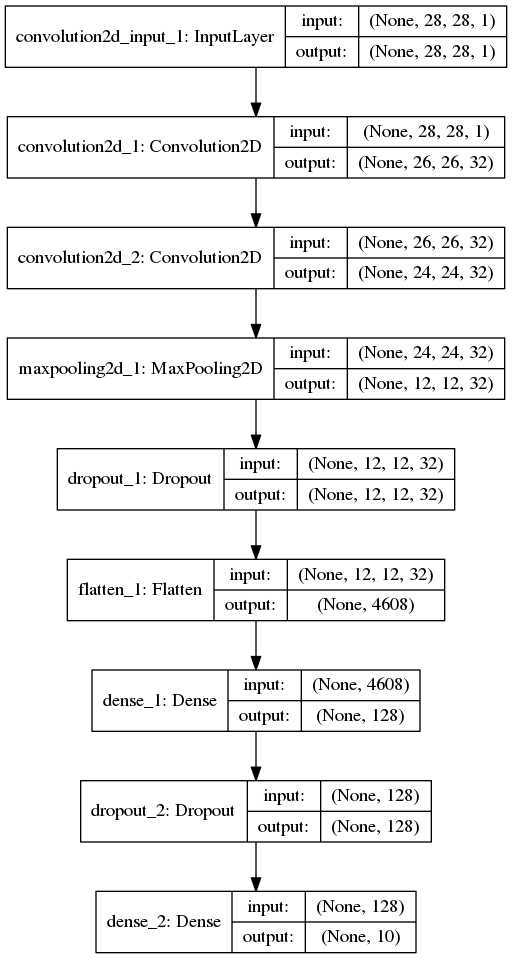
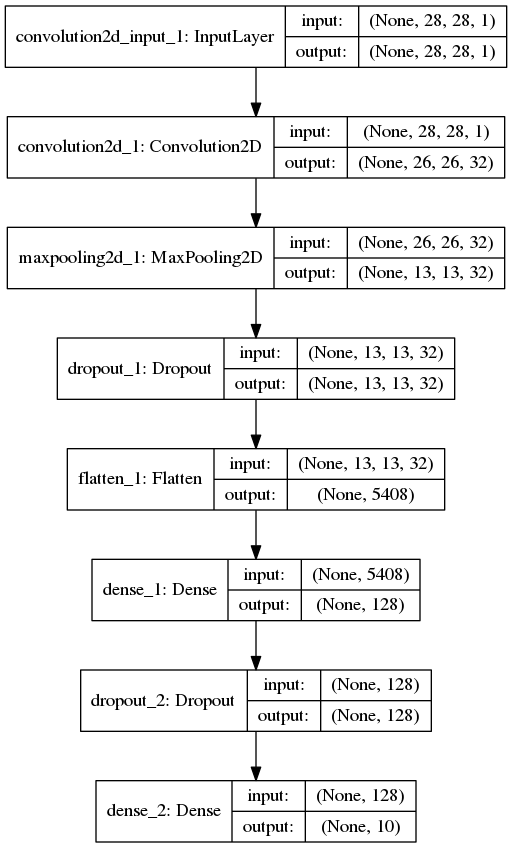
New architectures

Changed region(s): [[0.0, 0.0, 1.0, 1.0]]

diff --git a/Net/net.py b/Net/net.py
@@ -13,6 +13,8 @@ import sys
 import numpy as np
 from sklearn import metrics
 from keras.utils import visualize_util
+from keras.callbacks import EarlyStopping
+from keras.callbacks import ModelCheckpoint
 from keras.layers import Convolution2D, MaxPooling2D
 from keras.layers import Dense, Dropout, Flatten
 from keras.models import Sequential, load_model
@@ -24,27 +26,8 @@ from CustomMetrics.customcallback import LearningCurves
 # Seed for the computer pseudorandom number generator.
 np.random.seed(123)
 
-def add_layers(dropout):
-    ''' Adds to the Keras model the layers defined below '''
-    model = Sequential()
-    model.add(Convolution2D(nb_filters, kernel_size[0], kernel_size[1],
-                            border_mode="valid", activation="relu",
-                            input_shape=input_shape))
-    model.add(Convolution2D(nb_filters, kernel_size[0], kernel_size[1],
-                            activation="relu"))
-    model.add(MaxPooling2D(pool_size=pool_size))
-    if dropout == "y":
-        model.add(Dropout(0.25))
-    model.add(Flatten())
-    model.add(Dense(128, activation="relu"))
-    if dropout == "y":
-        model.add(Dropout(0.5))
-    model.add(Dense(nb_classes, activation="softmax"))
-    
-    return model
-
 if __name__ == "__main__":  
-    nb_epoch = 12
+    nb_epoch = 100
     batch_size = 128
     nb_classes = 10
     labels = [0, 1, 2, 3, 4, 5, 6, 7, 8, 9]
@@ -88,7 +71,17 @@ if __name__ == "__main__":
         (x_val, y_val), input_shape = data.adapt(X_val, Y_val)
         
         # We add layers to our model.
-        model = add_layers(dropout)
+        model = Sequential()
+        model.add(Convolution2D(nb_filters, kernel_size[0], kernel_size[1],
+                                activation="relu", input_shape=input_shape))
+        model.add(MaxPooling2D(pool_size=pool_size))
+        if dropout == "y":
+            model.add(Dropout(0.25))
+        model.add(Flatten())
+        model.add(Dense(128, activation="relu"))
+        if dropout == "y":
+            model.add(Dropout(0.5))
+        model.add(Dense(nb_classes, activation="softmax"))
         
         # We compile our model.
         model.compile(loss="categorical_crossentropy", optimizer="adadelta",
@@ -96,9 +89,16 @@ if __name__ == "__main__":
             
         # We train the model and save data to plot a learning curve.
         learning_curves = LearningCurves()
-        validation = model.fit(x_train, y_train, batch_size=batch_size, 
-                               nb_epoch=nb_epoch, callbacks=[learning_curves],
-                               validation_data=(x_val, y_val))
+        early_stopping = EarlyStopping(monitor='val_loss', patience=2)
+        checkpoint = ModelCheckpoint("net.{epoch:02d}-{val_loss:.2f}.h5",
+                                     save_best_only=True)
+        
+        validation = model.fit(x_train, y_train,
+                               batch_size=batch_size, 
+                               nb_epoch=nb_epoch,
+                               validation_data=(x_val, y_val),
+                               callbacks=[learning_curves, early_stopping,
+                                          checkpoint])
             
         model.save("net.h5")
         visualize_util.plot(model, "net.png", show_shapes=True)

diff --git a/Net/layer_visualization.py b/Net/layer_visualization.py
@@ -14,11 +14,11 @@ import cv2
 import numpy as np
 import matplotlib.pyplot as plt
 from keras import backend as K
+from keras.utils import visualize_util
 from keras.models import load_model, Model
 
 def plot_activations(nb_filters, activations):
     ''' Plots the activations obtained between layers '''
-    nb_filters = activations.shape[3]
     for i in range(nb_filters):
         plt.subplot(math.ceil(nb_filters/7), 7, i + 1)
         plt.imshow(activations[0][:,:,i])
@@ -51,15 +51,21 @@ if __name__ == "__main__":
     model.predict(im)
     
     # First convolutional network activation and its plot
-    st_conv = Model(input=model.inputs,
-                    output=model.get_layer("convolution2d_1").output)
-    st_output = st_conv.predict(im)
-    plot_activations(st_output.shape[3], st_output)    
+    first_conv = Model(input=model.inputs,
+                       output=model.get_layer("convolution2d_1").output)
+    first_conv_activation = first_conv.predict(im)
+    plot_activations(first_conv_activation.shape[3], first_conv_activation)
+    first_conv_weights = model.get_layer("convolution2d_1").get_weights()
+    print("1st conv. layer weights shape: ", first_conv_weights[0].shape)
+    visualize_util.plot(first_conv, "1st_conv.png", show_shapes=True)
 
     # Second convolutional network activation and its plot
-    nd_conv = Model(input=model.input,
-                    output=model.get_layer("convolution2d_2").output)
-    nd_output = nd_conv.predict(im)
-    plot_activations(nd_output.shape[3], nd_output)
+    second_conv = Model(input=model.input,
+                        output=model.get_layer("convolution2d_2").output)
+    second_conv_activation = second_conv.predict(im)
+    plot_activations(second_conv_activation.shape[3], second_conv_activation)
+    second_conv_weights = model.get_layer("convolution2d_2").get_weights()
+    print("2nd conv. layer weights shape: ", second_conv_weights[0].shape)
+    visualize_util.plot(second_conv, "2nd_conv.png", show_shapes=True)
     
     
